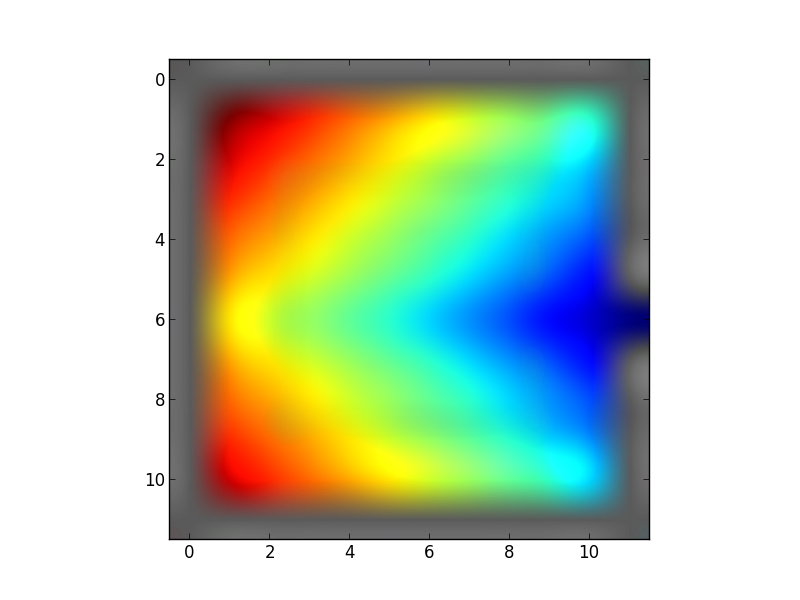
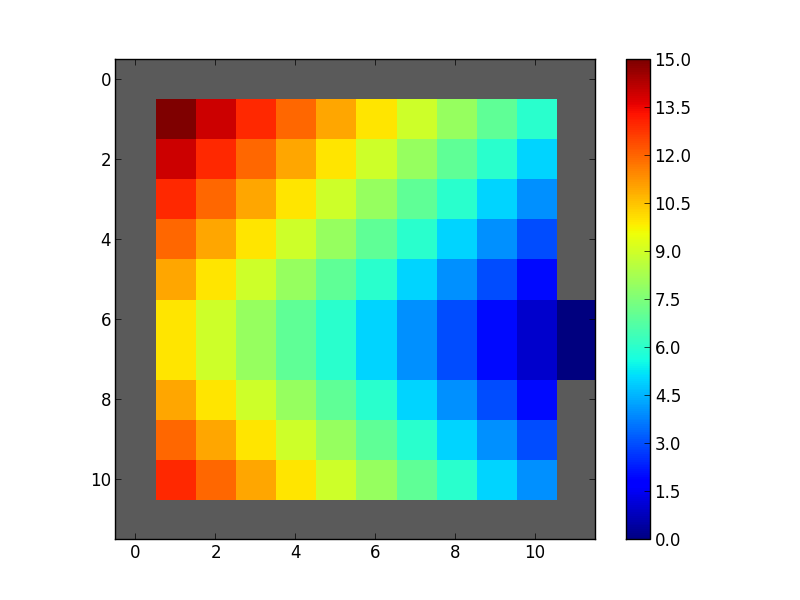
add colorbar and test two exits
ok

diff --git a/cellular_automaton.py b/cellular_automaton.py
@@ -81,7 +81,7 @@ def init_peds(N, box, width, height, walls):
 
 
 cells_initialised  = [] # list of cells which have their ssf initialized
-exit_cells = [ (dim_x/2, dim_y-1) ]
+exit_cells = [ (dim_x/2, dim_y-1) ,(dim_x/2+1, dim_y-1)]
 
 # x=0
 # y=0
@@ -102,8 +102,8 @@ def plot_sff(walls):
     vect = SFF*walls
     vect[vect<-10] = np.Inf
     print vect
-    ax.imshow(vect, cmap=cmap , interpolation = 'lanczos') #  lanczos nearest
-
+    plt.imshow(vect, cmap=cmap , interpolation = 'nearest') #  lanczos nearest
+    plt.colorbar()
     plt.savefig("SFF.png")
     print "figure: SFF.png"
 
@@ -233,19 +233,20 @@ def print_logs(N_pedestrians, width, height, t, dt, nruns, Dt):
     """
     print ("Simulation of %d pedestrians"%N_pedestrians)
     print ("Simulation space (%.2f x %.2f) m^2"%(width,height))
-    print ("Simulation time: %.2f s, runs: %d"%((t*dt),nruns))
-    print ("Run time: %.2f s"%(Dt))
-    print ("Factor: %.2f s"%( dt*t/Dt/nruns ) )
+    print ("Mean Simulation time: %.2f s, runs: %d"%((t*dt)/nruns, nruns))
+    print ("Total Run time: %.2f s"%(Dt))
+    print ("Factor: %.2f s"%( dt*t/Dt ) )
 
     
 if __name__ == "__main__":
-    draw = 0   # plot or not
+    drawS = 0   # plot or not
+    drawP = 0   # plot or not
     kappaS = 1
     kappaD = 0
     sff = init_SFF()
     walls = init_walls(exit_cells)
     init_obstacles()
-    if draw:
+    if drawS:
         plot_sff(walls)
     # to calculate probabilities change values of walls
     prob_walls = np.empty_like (walls)   # for calculating probabilities
@@ -263,10 +264,10 @@ if __name__ == "__main__":
         peds = init_peds(N_pedestrians, [from_x, to_x, from_y, to_y], width, height, walls)
         dff = init_DFF()
         for t in steps: # simulation loop
-            if draw:
+            if drawP:
                 plot_peds(peds, plot_walls, t)
 
-            print ("n: %3d ----  t: %3d |  N: %3d"%(n,t, np.sum(peds)))
+                print ("n: %3d ----  t: %3d |  N: %3d"%(n,t, np.sum(peds)))
             dff = update_DFF()
             peds = seq_update_cells(peds, sff, dff, prob_walls, kappaD, kappaS)
 
